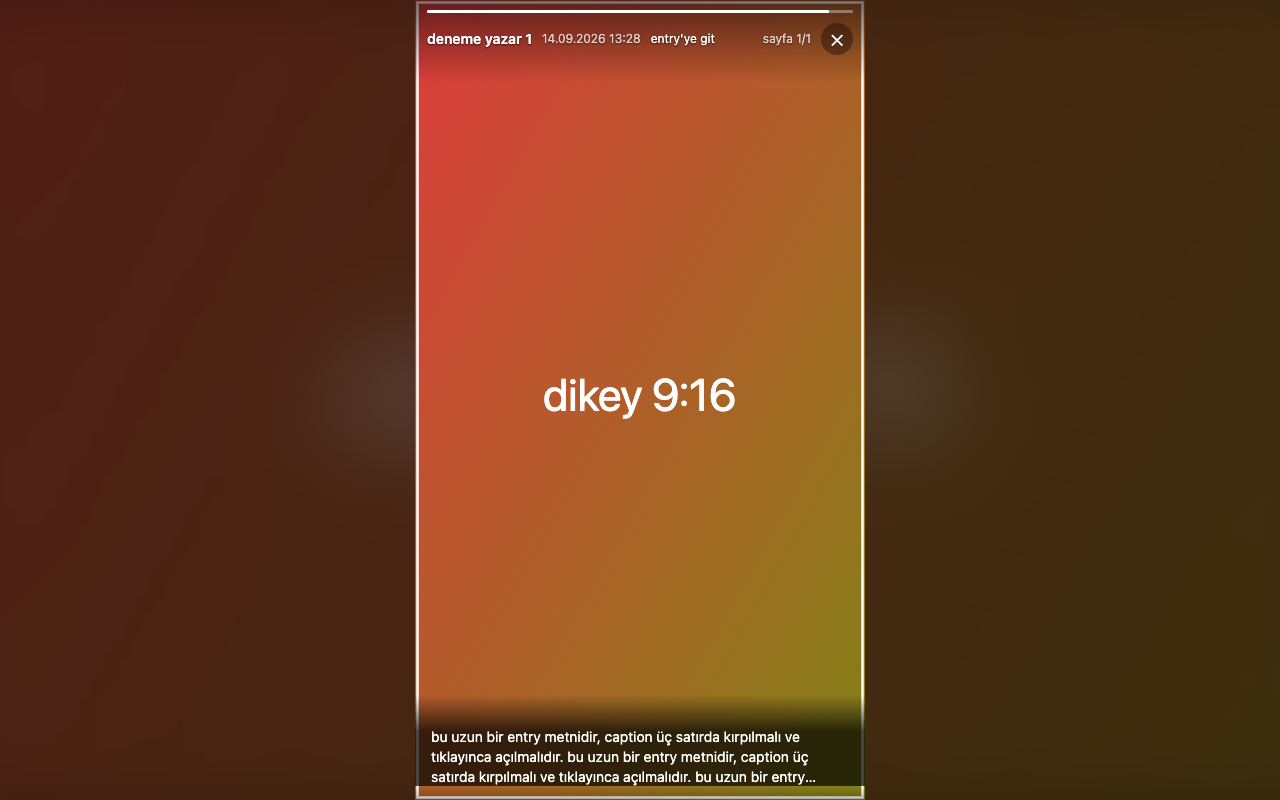
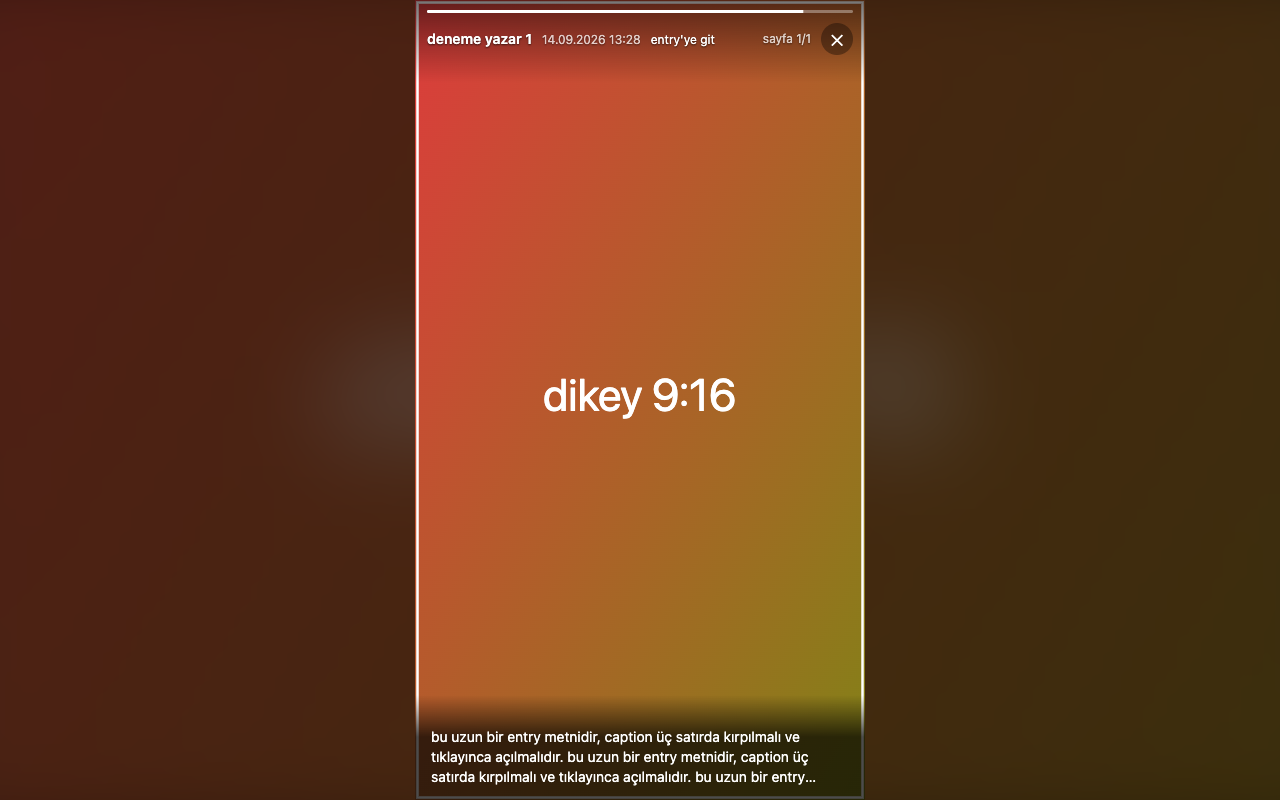
fix: katman gradient'lerini görselin kenarlarına hizala, caption degradesini en alta indir
Üst ve alt katmanlar clamp(360px, …, 1200px) yerine görselin çizilen
genişliğine tam oturur; geniş görsellerde kenar boşluğu, dar görsellerde
taşma kalmaz. Dar görsellerde yazar/tarih/entry linki kısaltılır ya da alt
satıra kayar, sayfa bilgisi ve kapat düğmesi sağ üstte kalır.

Caption'ın saydam alt kenarlığında gradient padding-box'a göre tekrar
ettiği için en altta degradesiz bir şerit görünüyordu;
background-origin: border-box ile degrade görselin en altına iner.

Store ekran görüntüleri yeni görünümle yeniden çekildi.

Changed region(s): [[0.3125, 0.9688, 0.6875, 1.0], [0.4375, 0.0312, 0.5625, 0.0625]]

diff --git a/src/viewer/viewer.css b/src/viewer/viewer.css
@@ -69,10 +69,9 @@
 .es-top,
 .es-caption {
   position: absolute;
-  left: 50%;
+  right: 0;
+  left: 0;
   box-sizing: border-box;
-  width: clamp(360px, 100%, min(100vw, 1200px));
-  transform: translateX(-50%);
 }
 
 .es-top {
@@ -125,11 +124,36 @@
 
 .es-meta {
   display: flex;
-  align-items: center;
+  align-items: flex-start;
   gap: 10px;
   margin-top: 10px;
-  white-space: nowrap;
   text-shadow: 0 1px 2px rgba(0, 0, 0, 0.6);
+}
+
+.es-info {
+  display: flex;
+  flex: 1 1 auto;
+  flex-wrap: wrap;
+  align-content: center;
+  align-items: baseline;
+  gap: 2px 10px;
+  min-width: 0;
+  min-height: 32px;
+}
+
+.es-info > * {
+  max-width: 100%;
+  overflow: hidden;
+  text-overflow: ellipsis;
+  white-space: nowrap;
+}
+
+.es-controls {
+  display: flex;
+  flex: none;
+  align-items: center;
+  gap: 10px;
+  white-space: nowrap;
 }
 
 .es-meta a {
@@ -143,9 +167,7 @@
 }
 
 .es-author {
-  overflow: hidden;
   font-weight: 600;
-  text-overflow: ellipsis;
 }
 
 .es-date,
@@ -157,10 +179,6 @@
 .es-date,
 .es-page {
   opacity: 0.75;
-}
-
-.es-spacer {
-  flex: 1;
 }
 
 .es-paused {
@@ -194,6 +212,7 @@
   border-bottom: 14px solid transparent;
   overflow: hidden;
   background: linear-gradient(rgba(0, 0, 0, 0), rgba(0, 0, 0, 0.7) 40%);
+  background-origin: border-box;
   white-space: pre-line;
   cursor: pointer;
   -webkit-box-orient: vertical;

diff --git a/src/viewer/viewer.js b/src/viewer/viewer.js
@@ -35,7 +35,10 @@ export function openViewer({ feed, topic, cssText, onClose, doc = document }) {
   const closeButton = el('button', { class: 'es-close', type: 'button', 'aria-label': 'kapat', text: '✕' });
   const top = el('div', { class: 'es-top' }, [
     progress,
-    el('div', { class: 'es-meta' }, [author, date, permalink, el('span', { class: 'es-spacer' }), pageInfo, pausedBadge, closeButton]),
+    el('div', { class: 'es-meta' }, [
+      el('div', { class: 'es-info' }, [author, date, permalink]),
+      el('div', { class: 'es-controls' }, [pageInfo, pausedBadge, closeButton]),
+    ]),
   ]);
   const image = el('img', { class: 'es-image', alt: '', draggable: 'false' });
   const caption = el('div', { class: 'es-caption' });

diff --git a/docs/superpowers/specs/2026-09-14-eksi-stories-design.md b/docs/superpowers/specs/2026-09-14-eksi-stories-design.md
@@ -177,8 +177,11 @@ kilitlenir. `role="dialog"`, `aria-label="story görüntüleyici"`; açılınca 
 - Arka plan: aynı görsel `filter: blur(40px) brightness(.4)` ile sahneyi doldurur.
 - UI katmanları görselin üstüne biner ve görselin çizilen genişliğine hizalanır: üstte
   progress çubukları + yazar/tarih/entry linki + "sayfa N/M" + ✕; altta caption. İkisi de
-  yarı saydam degrade zemin üzerindedir. Katman genişliği `clamp(360px, <görsel genişliği>,
-  min(100vw, 1200px))`.
+  yarı saydam degrade zemin üzerindedir. Katmanlar görselin çizilen genişliğine tam oturur:
+  sol ve sağ kenarları görselin kenarlarıyla aynıdır, alt degrade görselin en altına kadar iner
+  (kullanıcı kararı, 15.09.2026; önceki `clamp(360px, …, 1200px)` kuralı geniş ve dar
+  görsellerde kenarları kaydırıyordu). Dar görsellerde yazar, tarih ve entry linki kısaltılır ya
+  da alt satıra kayar; "sayfa N/M", ❚❚ ve ✕ sağ üstte kalır.
 - Tıklama bölgeleri ve basılı tutma tüm sahneyi kapsar (bulanık alan dahil). Sol %30 = geri,
   sağ %70 = ileri. Linkler ve ✕ tıklama-ile-ilerlemeyi tetiklemez.
 - `ResizeObserver` ile pencere değişince katmanlar yeniden hizalanır.
@@ -258,4 +261,4 @@ manuel test listesi), `.gitignore`, bu spec → `gh repo create onursenture/eksi
 | Görsel çözümleme eşzamanlılığı | 2 |
 | Ardışık boş sayfa limiti | 5 |
 | Toast süresi | 1500 ms |
-| Katman genişliği | clamp(360px, görsel genişliği, min(100vw, 1200px)) |
+| Katman genişliği | görselin çizilen genişliği (kenarlara tam oturur) |
